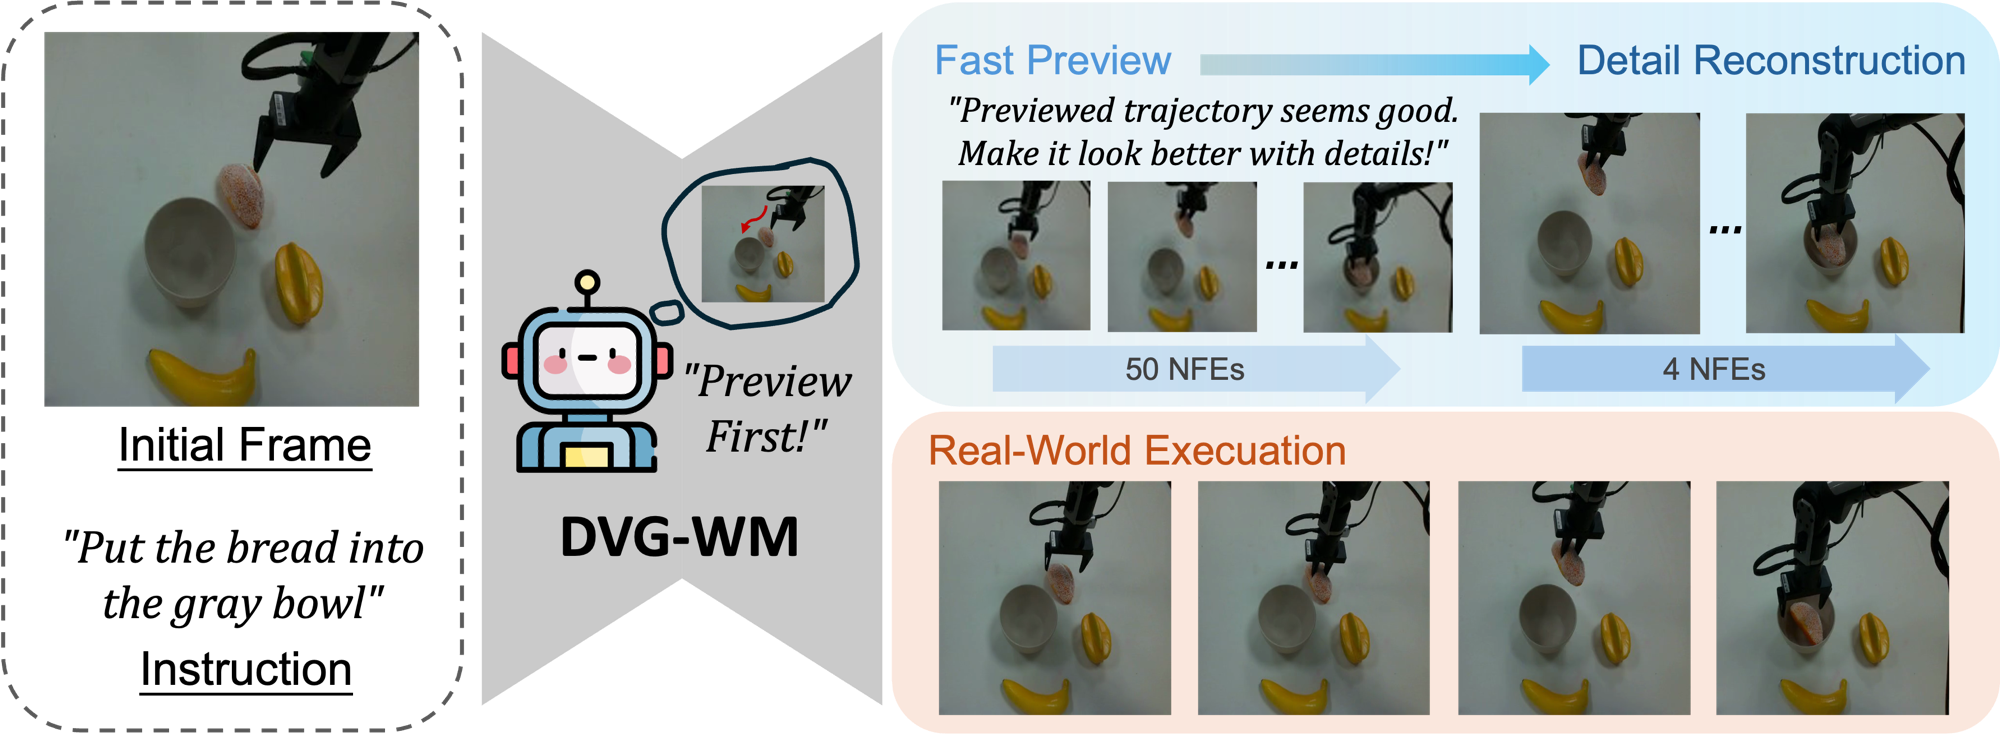
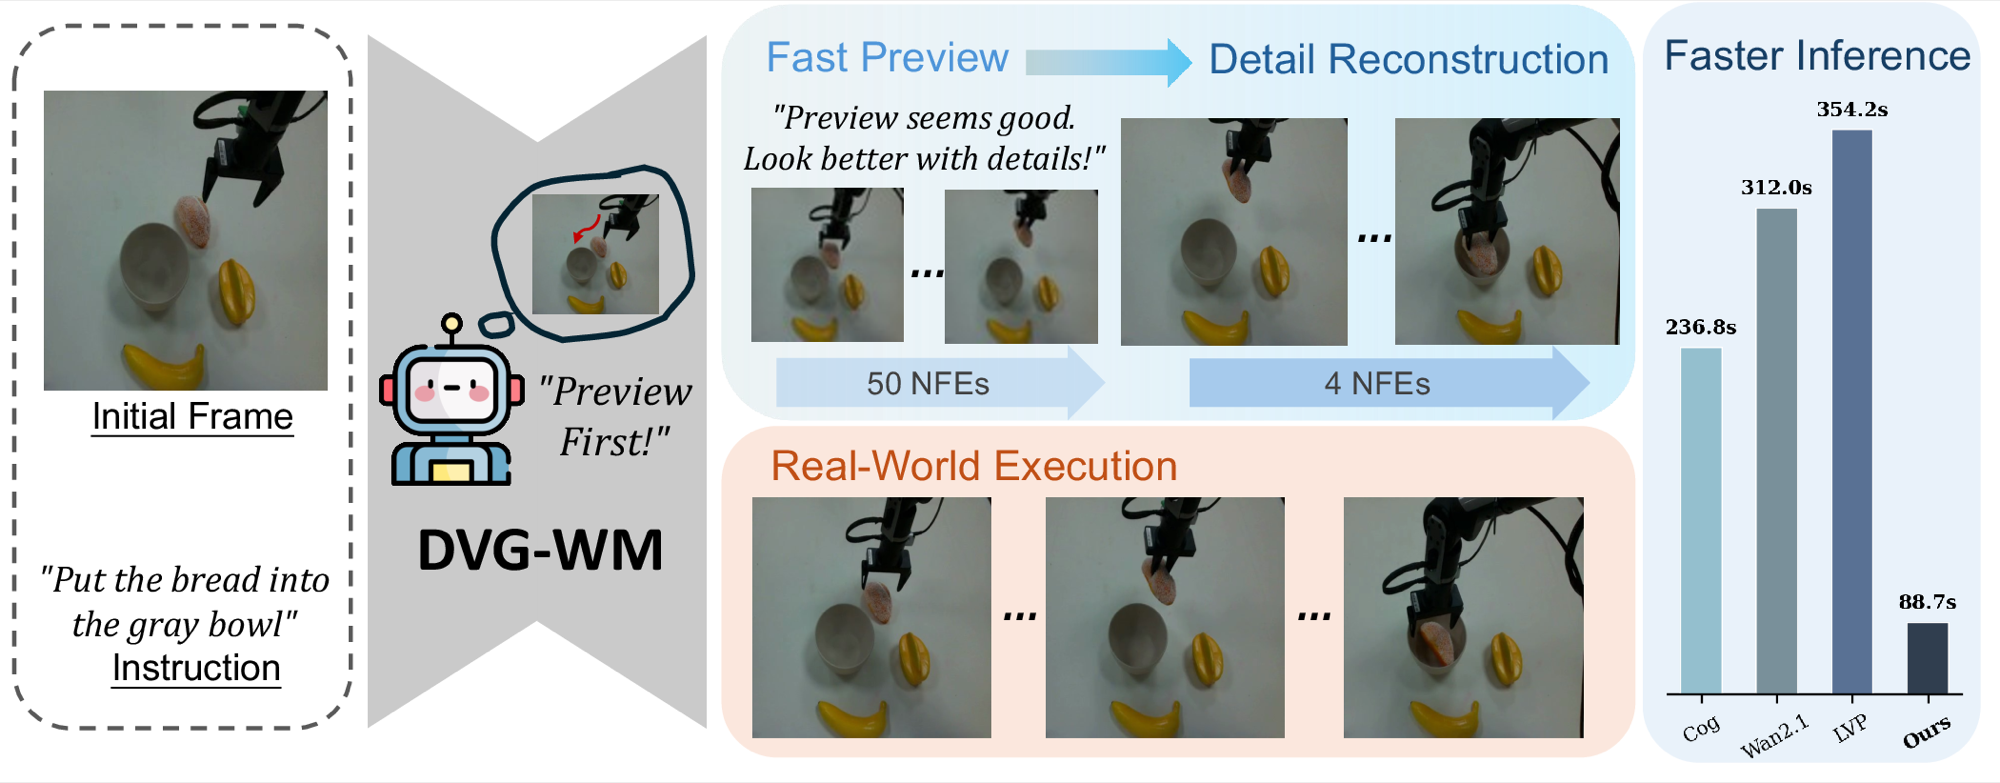
Update DVG-WM page: ECCV 2026 badge, Code/BibTeX coming soon, white teaser
- Venue badge -> ECCV 2026
- Code button and BibTeX marked "coming soon"
- Teaser (Fig. 1) rendered on white background (opaque) using the full PDF
  figure, which also includes the inference-time bar chart

diff --git a/DVGWM/index.html b/DVGWM/index.html
@@ -29,7 +29,7 @@
 <!-- ══ Hero ══ -->
 <section class="hero">
   <div class="container">
-    <div class="hero-venue">Embodied World Model &middot; 2026</div>
+    <div class="hero-venue">ECCV 2026</div>
 
     <h1 class="hero-title">
       <em>DVG-WM</em>: Disentangled Video Generation<br>
@@ -56,10 +56,10 @@
         <svg width="16" height="16" fill="none" stroke="currentColor" stroke-width="2" viewBox="0 0 24 24"><path d="M14 2H6a2 2 0 00-2 2v16a2 2 0 002 2h12a2 2 0 002-2V8z"/><polyline points="14 2 14 8 20 8"/></svg>
         Paper <span class="btn-sub">(coming soon)</span>
       </span>
-      <a class="btn btn-primary" href="https://github.com/zyshan0929/DVG-WM" aria-label="Code on GitHub">
+      <span class="btn btn-disabled" aria-disabled="true" title="Code coming soon">
         <svg width="16" height="16" fill="currentColor" viewBox="0 0 24 24"><path d="M12 2C6.477 2 2 6.484 2 12.017c0 4.425 2.865 8.18 6.839 9.504.5.092.682-.217.682-.483 0-.237-.008-.868-.013-1.703-2.782.605-3.369-1.343-3.369-1.343-.454-1.158-1.11-1.466-1.11-1.466-.908-.62.069-.608.069-.608 1.003.07 1.531 1.032 1.531 1.032.892 1.53 2.341 1.088 2.91.832.092-.647.35-1.088.636-1.338-2.22-.253-4.555-1.113-4.555-4.951 0-1.093.39-1.988 1.029-2.688-.103-.253-.446-1.272.098-2.65 0 0 .84-.27 2.75 1.026A9.564 9.564 0 0112 6.844c.85.004 1.705.115 2.504.337 1.909-1.296 2.747-1.027 2.747-1.027.546 1.379.202 2.398.1 2.651.64.7 1.028 1.595 1.028 2.688 0 3.848-2.339 4.695-4.566 4.943.359.309.678.92.678 1.855 0 1.338-.012 2.419-.012 2.747 0 .268.18.58.688.482A10.019 10.019 0 0022 12.017C22 6.484 17.522 2 12 2z"/></svg>
-        Code
-      </a>
+        Code <span class="btn-sub">(coming soon)</span>
+      </span>
       <a class="btn btn-outline" href="#results">
         <svg width="16" height="16" fill="none" stroke="currentColor" stroke-width="2" viewBox="0 0 24 24"><polyline points="22 12 18 12 15 21 9 3 6 12 2 12"/></svg>
         Results
@@ -369,16 +369,10 @@
     <p class="section-label">Citation</p>
     <h2 class="section-title">BibTeX</h2>
     <p class="section-body">
-      If you find DVG-WM useful in your research, please consider citing our work.
+      The BibTeX entry will be available soon.
     </p>
     <div class="citation-block reveal">
-      <button class="copy-btn" id="copy-btn" type="button">Copy</button>
-      <code id="bibtex">@article{shan2026dvgwm,
-  title={DVG-WM: Disentangled Video Generation Enables Efficient Embodied World Model for Robotic Manipulation},
-  author={Shan, Ziyu and Wu, Zhenyu and Wang, Xiaofeng and Zhu, Zheng and Wang, Ziwei},
-  year={2026}
-}
-</code>
+      <code>Coming soon.</code>
     </div>
   </div>
 </section>
@@ -387,8 +381,8 @@
 <footer class="site-footer">
   <div class="container">
     <p>
-      DVG-WM &middot; 2026 &middot;
-      <a href="https://github.com/zyshan0929/DVG-WM">Code</a> &middot;
+      DVG-WM &middot; ECCV 2026 &middot;
+      Code (coming soon) &middot;
       <a href="https://zyshan0929.github.io">Ziyu Shan</a>
     </p>
     <p class="footer-sub">

diff --git a/DVGWM/assets/styles.css b/DVGWM/assets/styles.css
@@ -790,5 +790,5 @@ html.js .reveal.visible {
   .figure-split { grid-template-columns: 1fr; }
 }
 
-/* Teaser figure on warm background */
-.figure-wrap.teaser img { background: #0c0c0c; }
+/* Teaser figure on white background */
+.figure-wrap.teaser img { background: #ffffff; }